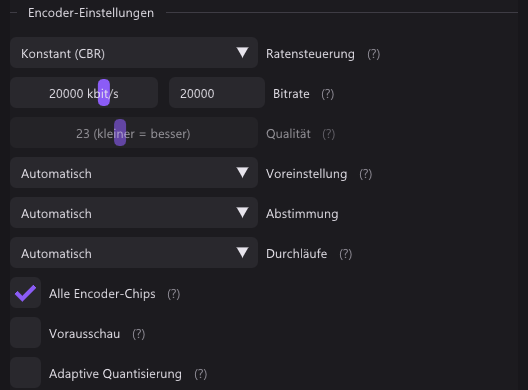
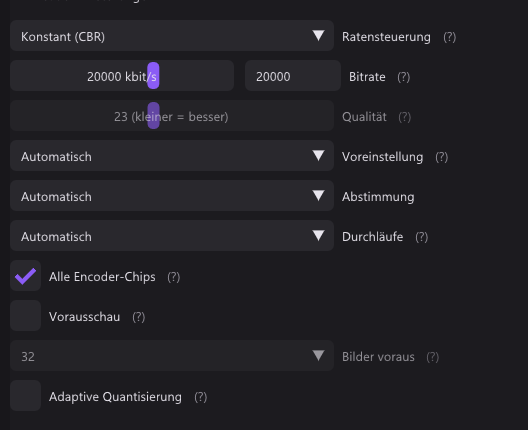
Encoder: NVENC look-ahead depth, 8 to 32 frames
Look-ahead was a switch with the depth fixed at 32. Frames ahead now picks
8, 16, 24 or 32 (default 32, the old value), NVENC only, greyed out while
look-ahead is off. Each frame over 8 held about 15 MB at 1440p (AV1, p7,
peak private bytes 780 at 8 against 1072 at 32). Quick Sync and AMF stay
on or off. Manual and screenshots in both languages.

diff --git a/docs/de/manual.html b/docs/de/manual.html
@@ -196,6 +196,7 @@
         <li><strong>Größerer Puffer im Arbeitsspeicher</strong> hält, was ein langsames Laufwerk noch nicht geschrieben hat, mehr als die üblichen 512&nbsp;MB.</li>
         <li>Kommt der Encoder nicht hinterher, fallen Bilder weg statt wiederholt zu werden. Ein Hinweis sagt es, und die Aufnahmeanzeige zeigt es, solange es anhält. Abhilfe: eine schnellere Voreinstellung, eine kleinere Auflösung oder Bildrate oder alle Encoder-Chips.</li>
         <li><strong>Encoder &rarr; Alle Encoder-Chips:</strong> Hat die Grafikkarte mehr als einen NVENC, teilen sich bei H.265 und AV1 alle jedes Bild. Eine RTX&nbsp;4080 schafft AV1 in 1440p mit Preset p7 dann 183 statt 110 Bilder pro Sekunde.</li>
+        <li><strong>Encoder &rarr; Bilder voraus:</strong> Bei eingeschalteter Vorausschau, wie weit NVENC vorausschaut, 8 bis 32 Bilder. Weniger sparen Arbeitsspeicher, bei 1440p rund 15&nbsp;MB je Bild.</li>
         <li><strong>Ton &rarr; Tonquellen der Aufnahme</strong> ergänzt den Ton der Karte um beliebig viele Quellen: Mikrofone, Ausgabegeräte, den Systemton ohne qBlank. Jede Quelle hat eine eigene Verstärkung und kommt in die Mischung, auf eine eigene Spur oder beides. Wiedergegeben wird davon nichts.</li>
         <li><strong>Nach MP4 umpacken</strong> macht fertige Aufnahmen zu MP4, ohne sie neu zu kodieren.</li>
       </ul>
@@ -204,7 +205,7 @@
         <figcaption>Einstellungen &rarr; Aufnahme: Container, Auflösung, Ordner und freier Platz, darunter die Screenshots.</figcaption>
       </figure>
       <figure class="ui">
-        <img src="shots/encoder.png" width="528" height="390" loading="lazy" alt="Der Abschnitt Encoder-Einstellungen: Ratensteuerung, Bitrate, Qualität, Voreinstellung, Abstimmung, Durchläufe und der Haken bei Alle Encoder-Chips">
+        <img src="shots/encoder.png" width="528" height="430" loading="lazy" alt="Der Abschnitt Encoder-Einstellungen: Ratensteuerung, Bitrate, Qualität, Voreinstellung, Abstimmung, Durchläufe, der Haken bei Alle Encoder-Chips, Vorausschau mit Bilder voraus auf 32">
         <figcaption>Einstellungen &rarr; Encoder: <em>Alle Encoder-Chips</em> unter den Encoder-Einstellungen.</figcaption>
       </figure>
       <figure class="ui">

diff --git a/docs/manual.html b/docs/manual.html
@@ -197,6 +197,7 @@
         <li><strong>Larger buffer in memory</strong> holds what a slow drive has not written yet, more than the usual 512&nbsp;MB.</li>
         <li>If the encoder cannot keep up, frames are left out rather than repeated. A notice says so, and the recording indicator shows it while it lasts. A faster preset, a lower resolution or frame rate, or all encoder chips helps.</li>
         <li><strong>Encoder &rarr; All encoder chips:</strong> on cards with more than one NVENC, H.265 and AV1 share each frame between them. An RTX&nbsp;4080 then does AV1 at 1440p and preset p7 at 183 instead of 110 frames a second.</li>
+        <li><strong>Encoder &rarr; Frames ahead:</strong> with look-ahead on, how far NVENC looks ahead, 8 to 32 frames. Fewer save memory, at 1440p about 15&nbsp;MB per frame.</li>
         <li><strong>Audio &rarr; Recording sources</strong> adds to the card audio as many sources as needed: microphones, output devices, the system sound without qBlank. Each has its own gain and goes on the mix, on a track of its own, or both. None of it is played back.</li>
         <li><strong>Rewrap to MP4</strong> turns finished recordings into MP4 without encoding them again.</li>
       </ul>
@@ -205,7 +206,7 @@
         <figcaption>Settings &rarr; Recording: container, resolution, folder and free space, below them the screenshots.</figcaption>
       </figure>
       <figure class="ui">
-        <img src="shots/encoder.png" width="528" height="390" loading="lazy" alt="The Encoder settings section: rate control, bitrate, quality, preset, tuning, multipass, and the box All encoder chips ticked">
+        <img src="shots/encoder.png" width="528" height="430" loading="lazy" alt="The Encoder settings section: rate control, bitrate, quality, preset, tuning, multipass, the box All encoder chips ticked, Look-ahead with Frames ahead at 32">
         <figcaption>Settings &rarr; Encoder: <em>All encoder chips</em> below the encoder settings.</figcaption>
       </figure>
       <figure class="ui">

diff --git a/src/ui/settings_window.cpp b/src/ui/settings_window.cpp
@@ -4914,6 +4914,20 @@ void SettingsWindow::DrawEncoderBlock(const EncoderInfo* encoder) {
                "Kostet etwas Verzögerung -- beim Aufnehmen egal, beim Streamen nicht.",
                "The encoder looks a little way ahead and spreads its bits better. Costs some "
                "delay -- which does not matter for recording and does for streaming."));
+  ImGui::BeginDisabled(!nvenc || !rec.lookAhead);
+  const char* depthNames[] = {"8", "16", "24", "32"};
+  int depth = rec.lookAheadFrames / 8 - 1;
+  ImGui::SetNextItemWidth(-260.0f);
+  if (ImGui::Combo(T("Bilder voraus", "Frames ahead"), &depth, depthNames, 4)) {
+    rec.lookAheadFrames = (depth + 1) * 8;
+  }
+  Anchor("lookaheadframes");
+  ImGui::SameLine();
+  HelpMarker(T("Wie weit NVENC vorausschaut. Mehr Bilder verteilen die Bits besser und "
+               "kosten Arbeitsspeicher, bei 1440p rund 15 MB je Bild über 8.",
+               "How far NVENC looks ahead. More frames spread the bits better and cost "
+               "memory, at 1440p about 15 MB per frame over 8."));
+  ImGui::EndDisabled();
   ImGui::Checkbox(T("Adaptive Quantisierung", "Adaptive quantisation"), &rec.adaptiveQuant);
   Anchor("aq");
   ImGui::SameLine();

diff --git a/src/config.cpp b/src/config.cpp
@@ -1099,6 +1099,7 @@ bool Config::Load(std::string* error) {
   record.tune = ReadEnum<EncoderTune>(r, "tune", kEncoderTuneCount, EncoderTune::Auto);
   record.multipass = ReadEnum<Multipass>(r, "multipass", kMultipassCount, Multipass::Auto);
   record.lookAhead = r["lookAhead"].AsBool(false);
+  record.lookAheadFrames = Clamp((r["lookAheadFrames"].AsInt(32) + 7) / 8 * 8, 8, 32);
   record.adaptiveQuant = r["adaptiveQuant"].AsBool(false);
   record.allEncoderChips = r["allEncoderChips"].AsBool(false);
   record.fps = Clamp(r["fps"].AsNumber(0.0), 0.0, 480.0);
@@ -1300,6 +1301,7 @@ std::string Config::Serialize() const {
   r["tune"] = (int)record.tune;
   r["multipass"] = (int)record.multipass;
   r["lookAhead"] = record.lookAhead;
+  r["lookAheadFrames"] = record.lookAheadFrames;
   r["adaptiveQuant"] = record.adaptiveQuant;
   r["allEncoderChips"] = record.allEncoderChips;
   r["fps"] = record.fps;

diff --git a/src/recording_control.cpp b/src/recording_control.cpp
@@ -247,7 +247,8 @@ bool RecordingControl::SameSession(const RecordSettings& wanted) const {
          wanted.speed == s.speed && wanted.bitrateKbps == s.bitrateKbps &&
          wanted.rateControl == s.rateControl && wanted.qualityLevel == s.qualityLevel &&
          wanted.preset == s.preset && wanted.tune == s.tune && wanted.multipass == s.multipass &&
-         wanted.lookAhead == s.lookAhead && wanted.adaptiveQuant == s.adaptiveQuant &&
+         wanted.lookAhead == s.lookAhead && wanted.lookAheadFrames == s.lookAheadFrames &&
+         wanted.adaptiveQuant == s.adaptiveQuant &&
          wanted.allEncoderChips == s.allEncoderChips && wanted.fullChroma == s.fullChroma &&
          wanted.unfiltered == s.unfiltered &&
          wanted.FpsFor(config_.active().capture.source) == s.fps &&

diff --git a/src/config.h b/src/config.h
@@ -685,6 +685,9 @@ struct RecordSettings {
   // Looking ahead costs latency and buys better bit distribution; adaptive
   // quantisation spends bits where the eye looks. Both cost a little speed.
   bool lookAhead = false;
+  // NVENC only: how far, 8 to 32 frames in eights. Each frame over 8 held
+  // about 15 MB at 1440p. Before 7.1 it was always 32.
+  int lookAheadFrames = 32;
   bool adaptiveQuant = false;
   // NVENC, H.265 and AV1: every picture cut into strips, one per encoder chip
   // on the card, encoded side by side. With two chips (RTX 4080) AV1 at 1440p

diff --git a/src/ui/settings_search.cpp b/src/ui/settings_search.cpp
@@ -410,6 +410,8 @@ const Entry kEntries[] = {
      "Multiple encoders|Streifen|Strips"},
     {Kind::Control, kTabEncoder, "lookahead", "Vorausschau", "Look-ahead",
      "Lookahead|RC lookahead|B-Frames"},
+    {Kind::Control, kTabEncoder, "lookaheadframes", "Bilder voraus", "Frames ahead",
+     "Lookahead|RC lookahead|Lookahead-Tiefe|Lookahead depth|Vorausschau|Look-ahead|NVENC"},
     {Kind::Control, kTabEncoder, "aq", "Adaptive Quantisierung", "Adaptive quantisation",
      "AQ|Spatial AQ|Temporal AQ|Quantisierung|Quantization"},
 

diff --git a/src/record/recorder.cpp b/src/record/recorder.cpp
@@ -992,7 +992,7 @@ std::vector<std::string> Recorder::EncoderOptions(const RecordSettings& settings
   // ---- looking ahead ----
   if (settings.lookAhead) {
     if (family == Family::Nvenc) {
-      pair("rc-lookahead", "32");
+      pair("rc-lookahead", std::to_string(settings.lookAheadFrames));
     } else if (family == Family::Qsv) {
       pair("look_ahead", "1");
     } else if (family == Family::Amf) {
